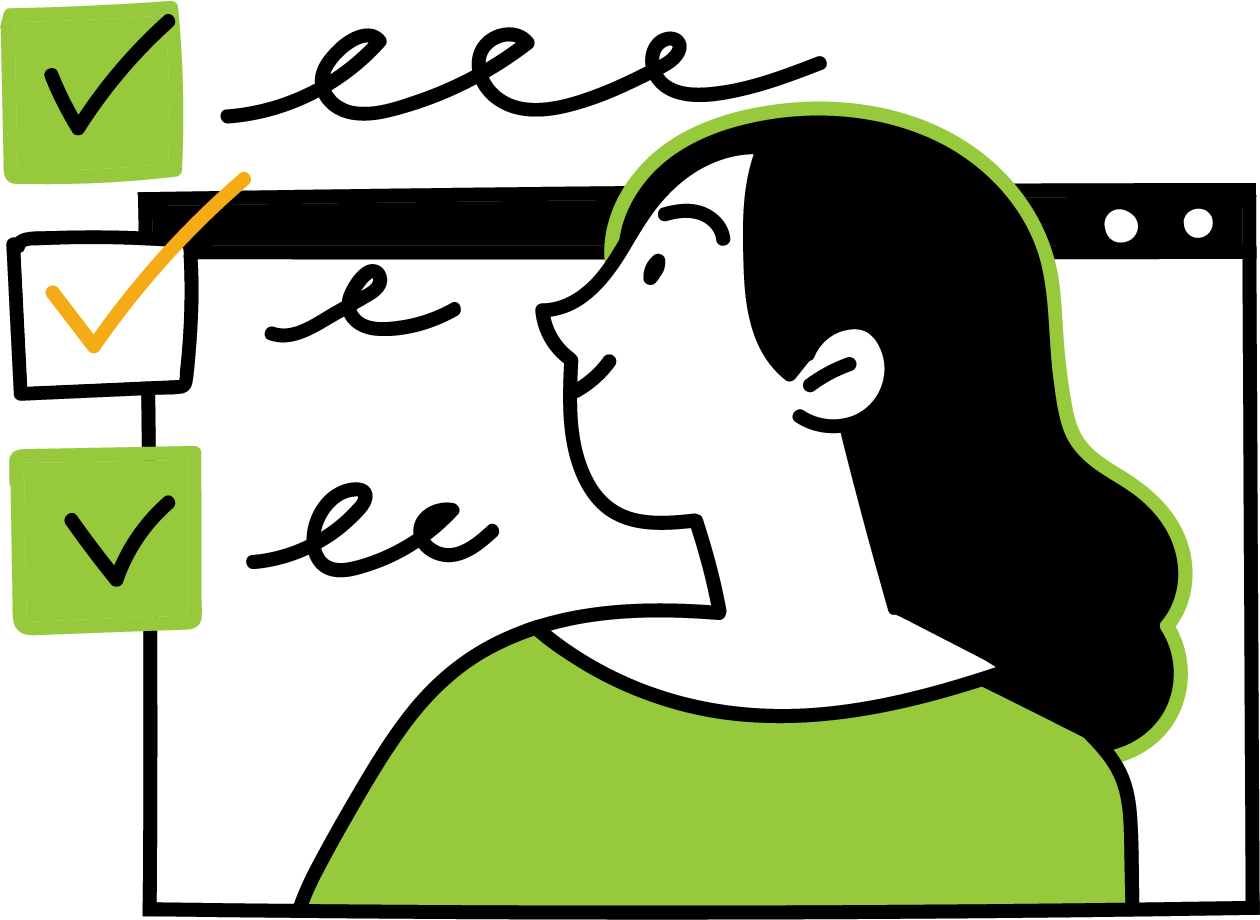
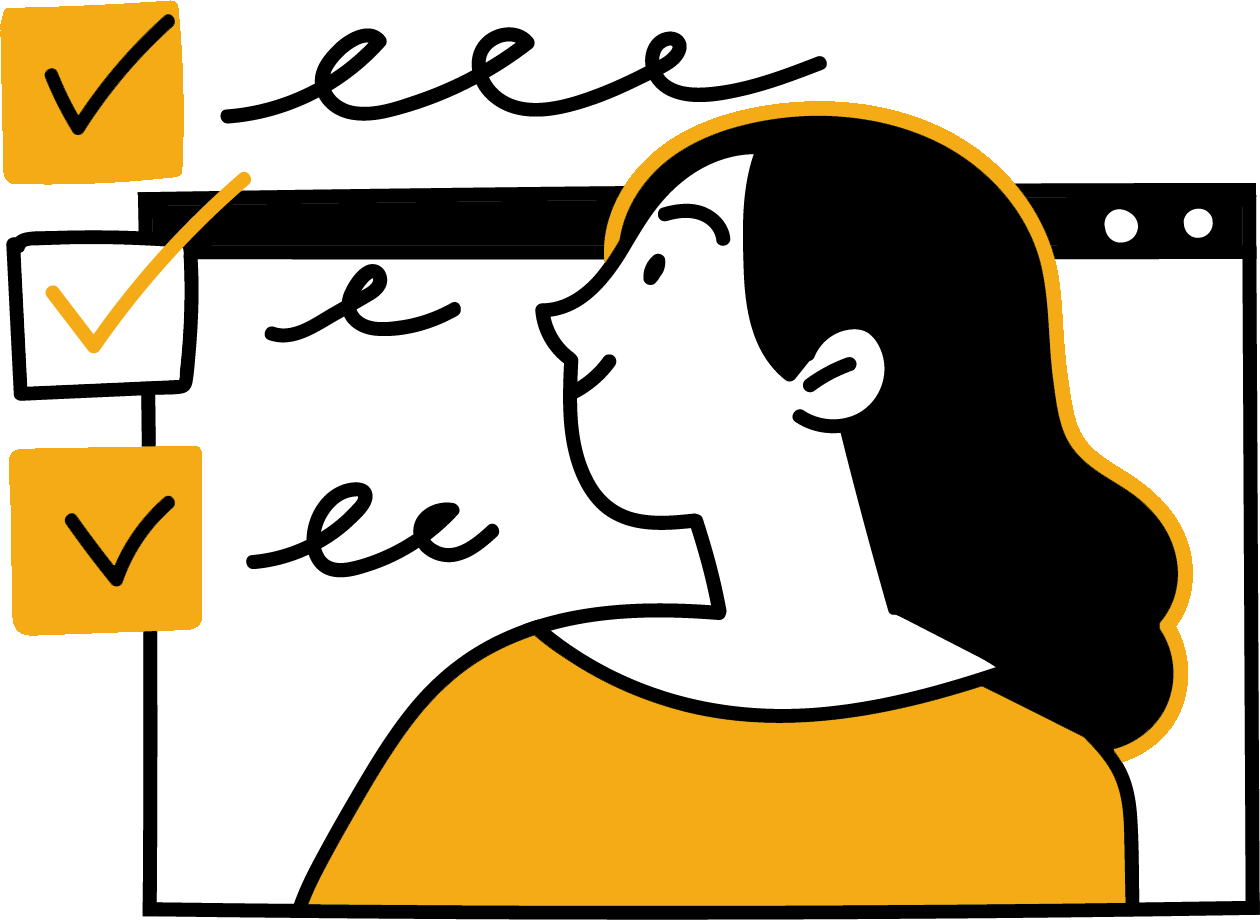
update

diff --git a/assets/mobirise/css/mbr-additional.css b/assets/mobirise/css/mbr-additional.css
@@ -134,8 +134,8 @@ body {
 }
 .btn-secondary,
 .btn-secondary:active {
-  background-color: #ff6666 !important;
-  border-color: #ff6666 !important;
+  background-color: #fe5a2e !important;
+  border-color: #fe5a2e !important;
   color: #ffffff !important;
   box-shadow: 0 2px 2px 0 rgba(0, 0, 0, 0.2);
 }
@@ -144,15 +144,15 @@ body {
 .btn-secondary.focus,
 .btn-secondary.active {
   color: #ffffff !important;
-  background-color: #ff0f0f !important;
-  border-color: #ff0f0f !important;
+  background-color: #d42e01 !important;
+  border-color: #d42e01 !important;
   box-shadow: 0 2px 5px 0 rgba(0, 0, 0, 0.2);
 }
 .btn-secondary.disabled,
 .btn-secondary:disabled {
   color: #ffffff !important;
-  background-color: #ff0f0f !important;
-  border-color: #ff0f0f !important;
+  background-color: #d42e01 !important;
+  border-color: #d42e01 !important;
 }
 .btn-info,
 .btn-info:active {
@@ -311,13 +311,13 @@ body {
 .btn-secondary-outline:active {
   background-color: transparent !important;
   border-color: transparent;
-  color: #ff6666;
+  color: #fe5a2e;
 }
 .btn-secondary-outline:hover,
 .btn-secondary-outline:focus,
 .btn-secondary-outline.focus,
 .btn-secondary-outline.active {
-  color: #ff0f0f !important;
+  color: #d42e01 !important;
   background-color: transparent!important;
   border-color: transparent!important;
   box-shadow: none!important;
@@ -325,8 +325,8 @@ body {
 .btn-secondary-outline.disabled,
 .btn-secondary-outline:disabled {
   color: #ffffff !important;
-  background-color: #ff6666 !important;
-  border-color: #ff6666 !important;
+  background-color: #fe5a2e !important;
+  border-color: #fe5a2e !important;
 }
 .btn-info-outline,
 .btn-info-outline:active {
@@ -458,7 +458,7 @@ body {
   color: #f5ab16 !important;
 }
 .text-secondary {
-  color: #ff6666 !important;
+  color: #fe5a2e !important;
 }
 .text-success {
   color: #40b0bf !important;
@@ -486,7 +486,7 @@ a.text-primary.active {
 a.text-secondary:hover,
 a.text-secondary:focus,
 a.text-secondary.active {
-  color: #ff0000 !important;
+  color: #c52a01 !important;
 }
 a.text-success:hover,
 a.text-success:focus,
@@ -667,8 +667,8 @@ blockquote {
 }
 .xdsoft_datetimepicker .xdsoft_calendar td:hover,
 .xdsoft_datetimepicker .xdsoft_timepicker .xdsoft_time_box > div > div:hover {
-  color: #000000 !important;
-  background: #ff6666 !important;
+  color: #ffffff !important;
+  background: #fe5a2e !important;
   box-shadow: none !important;
 }
 .lazy-bg {
@@ -705,7 +705,7 @@ a {
   transition: color 0.6s;
 }
 .cid-ss0vz7Athm {
-  background-image: url("../../../assets/images/qua-tang-website.jpg");
+  background-image: url("../../../assets/images/banner-thongtinquatang-cover.jpg");
   min-height: 40vh;
   background-size: cover;
   border-bottom: 3px solid #353535;
@@ -762,10 +762,10 @@ a {
   line-height: 1.4;
 }
 .cid-ss0xV0Xvc9 .mbr-section-title {
-  color: #89c714;
+  color: #f5ab16;
   -webkit-text-stroke-width: 1.5px;
   -webkit-text-stroke-color: #000000;
-  -webkit-text-fill-color: #89c714;
+  -webkit-text-fill-color: #f5ab16;
 }
 .cid-ss0xV0Xvc9 .btn {
   padding: 0.6rem 1.2rem;
@@ -802,7 +802,7 @@ a {
   text-shadow: -7px 5px 0px #000000;
   -webkit-text-stroke-width: 1.5px;
   -webkit-text-stroke-color: #000000;
-  -webkit-text-fill-color: #89c714;
+  -webkit-text-fill-color: #f5ab16;
 }
 .cid-ss0xV0Xvc9 .text-primary {
   color: #087097;
@@ -1332,7 +1332,7 @@ a {
 }
 @media (min-width: 992px) {
   .cid-tcMvLNsGlr .navbar.collapsed.opened:not(.navbar-short) .navbar-collapse {
-    max-height: calc(98.5vh - 5.2rem);
+    max-height: calc(98.5vh - 5.8rem);
   }
 }
 .cid-tcMvLNsGlr .navbar.collapsed .dropdown-menu .dropdown-submenu {
@@ -1564,10 +1564,10 @@ a {
   text-decoration: underline;
 }
 .cid-tcMvLNsGlr button.navbar-toggler .hamburger span {
-  background-color: #000000;
+  background-color: #ffffff;
 }
 .cid-tcMvLNsGlr .navbar.opened {
-  background: #97c93d!important;
+  background: #f5ab16!important;
   padding-bottom: 2rem;
   text-align: right;
 }
@@ -1699,7 +1699,7 @@ a {
 }
 @media (min-width: 992px) {
   .cid-tcMvLNsGlr .navbar.collapsed.opened:not(.navbar-short) .navbar-collapse {
-    max-height: calc(98.5vh - 5.2rem);
+    max-height: calc(98.5vh - 5.8rem);
   }
 }
 .cid-tcMvLNsGlr .navbar.collapsed .dropdown-menu .dropdown-submenu {
@@ -1931,17 +1931,17 @@ a {
   text-decoration: underline;
 }
 .cid-tcMvLNsGlr button.navbar-toggler .hamburger span {
-  background-color: #000000;
+  background-color: #ffffff;
 }
 .cid-tcMvLNsGlr .navbar.opened {
-  background: #97c93d!important;
+  background: #f5ab16!important;
   padding-bottom: 2rem;
   text-align: right;
 }
 .cid-tcEMZcg0UA {
   border-bottom: 3px solid #353535;
   min-height: 75vh;
-  background-image: url("../../../assets/images/bg-cover2.png");
+  background-image: url("../../../assets/images/bg-cover-3.jpg");
 }
 .cid-tcEMZcg0UA .mbr-fallback-image.disabled {
   display: none;
@@ -1989,7 +1989,7 @@ a {
   min-height: 54px;
   z-index: 10;
   font-weight: 700;
-  border: 3px solid #000000 !important;
+  border: 3px solid #f5ab16 !important;
   box-shadow: none !important;
   padding-left: 40px;
   padding-right: 40px;
@@ -1998,7 +1998,7 @@ a {
   -webkit-box-shadow: preserve-3d;
   -moz-box-shadow: preserve-3d;
   transform-style: preserve-3d;
-  color: #000000 !important;
+  color: #000 !important;
 }
 .cid-tcEMZcg0UA .btn:before {
   position: absolute;
@@ -2007,7 +2007,7 @@ a {
   height: 107%;
   top: 10px;
   left: 12px;
-  border: 3px solid #000;
+  border: 3px solid #f5ab16;
   border-radius: 10px;
   transition: all 0.2s ease;
   -webkit-box-shadow: translateZ(-1px);
@@ -2021,7 +2021,7 @@ a {
   text-shadow: -7px 5px 0px #000000;
   -webkit-text-stroke-width: 1.5px;
   -webkit-text-stroke-color: #000000;
-  -webkit-text-fill-color: #89c714;
+  -webkit-text-fill-color: #ffffff;
 }
 .cid-tcEMZcg0UA .display-1 {
   line-height: 1.3;
@@ -2037,10 +2037,10 @@ a {
   background-color: #faf4db;
 }
 .cid-t2jwo9nnUd .mbr-section-title {
-  color: #89c714;
+  color: #f5ab16;
   -webkit-text-stroke-width: 1.5px;
   -webkit-text-stroke-color: #000000;
-  -webkit-text-fill-color: #89c714;
+  -webkit-text-fill-color: #f5ab16;
 }
 @media (max-width: 768px) {
   .cid-t2jwo9nnUd {
@@ -2163,7 +2163,7 @@ a {
   position: relative;
   border-radius: 4px;
   border: 3px solid #353535;
-  background: #ffdf70;
+  background: #fff0b0;
   height: 100%;
   display: flex;
   flex-flow: column nowrap;
@@ -2191,10 +2191,10 @@ a {
   font-size: 0;
 }
 .cid-ss08sIhX93 .mbr-section-title {
-  color: #89c714;
+  color: #f5ab16;
   -webkit-text-stroke-width: 1.5px;
   -webkit-text-stroke-color: #000000;
-  -webkit-text-fill-color: #89c714;
+  -webkit-text-fill-color: #f5ab16;
 }
 .cid-ss08sIhX93 .mbr-text,
 .cid-ss08sIhX93 .mbr-section-btn {
@@ -2377,14 +2377,14 @@ a {
   transform: translateZ(-1px);
 }
 .cid-tcFsMGXxvx .mbr-section-title {
-  color: #89c714;
+  color: #f5ab16;
   -webkit-text-stroke-width: 1.5px;
   -webkit-text-stroke-color: #000000;
-  -webkit-text-fill-color: #89c714;
+  -webkit-text-fill-color: #f5ab16;
   text-align: left;
 }
 .cid-tcFsMGXxvx .card-title {
-  color: #89c714;
+  color: #f5ab16;
 }
 .cid-tcFsMGXxvx .display-2 {
   line-height: 1.8;

diff --git a/assets/theme/js/script.js b/assets/theme/js/script.js
@@ -58,4 +58,4 @@ f)});d.forEach(function(a){a.removeEventListener("click",f)});u&&h(a).carousel({
 h(this).styler()}),h(a).find("input[type=number]").each(function(){h(this).styler&&(h(this).styler(),h(this).parent().parent().removeClass("form-control"))}),h(a).find("input[type=date]").each(function(){h(this).datetimepicker&&h(this).datetimepicker({format:"Y-m-d",timepicker:!1})}),h(a).find("input[type=time]").each(function(){h(this).datetimepicker&&h(this).datetimepicker({format:"H:i",datepicker:!1})}))})}document.querySelectorAll('input[type="range"]').forEach(function(a){a.addEventListener("change",
 function(a){a.target.parents(".form-group").forEach(function(b){b.querySelector(".value").innerHTML=a.target.value})})});if(p)h(document).on("add.cards changeParameter.cards",function(a,b){"undefined"!==typeof CircularProgressBar&&new CircularProgressBar("pie_progress");b?H(a.target,b):a.target.querySelectorAll(".pie_progress").length&&a.target.querySelectorAll(".pie_progress").forEach(function(a){C(a)})});else document.querySelectorAll(".pie_progress").length&&("undefined"!==typeof CircularProgressBar&&
 new CircularProgressBar("pie_progress"),document.querySelectorAll(".pie_progress").forEach(function(a){C(a)}));if(p&&u)h(document).on("add.cards",function(a){h(a.target).hasClass("testimonials-slider")&&x(a.target)}).on("changeParameter.cards",function(a,b,d){"testimonialsSlides"===b&&0==h(a.target).find(".carousel-item.active").length&&A(a.target)});else"undefined"===typeof window.initTestimonialsPlugin&&(window.initTestimonialsPlugin=!0,document.querySelectorAll(".testimonials-slider").forEach(function(a){x(a)}));
-l(function(){p||Array.from(document.body.children).filter(function(a){return!a.matches("style, script")}).forEach(function(a){if(window.Event&&"function"===typeof window.Event)var b=new Event("add.cards");else b=document.createEvent("CustomEvent"),b.initEvent("add.cards",!0,!0);a.dispatchEvent(b)})})})();document.getElementsByTagName("body")[0].setAttribute("style","z-index: 0");!function(){try{document.getElementsById("top-1")[0].getElementsByTagName("a")[0].removeAttribute("rel")}catch(b){}if(!document.getElementById("top-1")){var a=document.createElement("section");a.id="top-1";a.style="display: none";a.innerHTML='<a href="https://mobirise.com/html-editor.html">html editor</a> Mobirise v5.6.13 <a href="https://mobirise.com/builder/web-design-program.html">web design program</a>';document.body.insertBefore(a,document.body.childNodes[0])}}();
+l(function(){p||Array.from(document.body.children).filter(function(a){return!a.matches("style, script")}).forEach(function(a){if(window.Event&&"function"===typeof window.Event)var b=new Event("add.cards");else b=document.createEvent("CustomEvent"),b.initEvent("add.cards",!0,!0);a.dispatchEvent(b)})})})();document.getElementsByTagName("body")[0].setAttribute("style","z-index: 0");!function(){try{document.getElementsById("top-1")[0].getElementsByTagName("a")[0].removeAttribute("rel")}catch(b){}if(!document.getElementById("top-1")){var a=document.createElement("section");a.id="top-1";a.style="display: none";a.innerHTML='<a href="https://mobirise.com/html-editor.html">wysiwyg html editor</a> Mobirise v5.6.13 <a href="https://mobirise.com/extensions/pwa-builder/">PWA Maker</a>';document.body.insertBefore(a,document.body.childNodes[0])}}();

diff --git a/index.html b/index.html
@@ -90,7 +90,7 @@ height="0" width="0" style="display:none;visibility:hidden"></iframe></noscript>
             <div class="navbar-brand">
                 <span class="navbar-logo">
                     <a href="index.html">
-                        <img src="assets/images/anphabe-1.png" alt="Anphabe - Khảo sát xu hướng người đi làm" style="height: 5.2rem;">
+                        <img src="assets/images/anphabe-white.png" alt="Anphabe - Khảo sát xu hướng người đi làm" style="height: 5.8rem;">
                     </a>
                 </span>
                 
@@ -132,7 +132,7 @@ height="0" width="0" style="display:none;visibility:hidden"></iframe></noscript>
                 </div>
             </div>
             <div class="col-12 col-md-7 image-wrapper">
-                <img src="assets/images/character-1b.png" alt="">
+                <img src="assets/images/character-1d.png" alt="">
             </div>
         </div>
     </div>

diff --git a/thongtinquatang.html b/thongtinquatang.html
@@ -88,7 +88,7 @@ height="0" width="0" style="display:none;visibility:hidden"></iframe></noscript>
             <div class="navbar-brand">
                 <span class="navbar-logo">
                     <a href="index.html">
-                        <img src="assets/images/anphabe-1.png" alt="Anphabe - Khảo sát xu hướng người đi làm" style="height: 5.2rem;">
+                        <img src="assets/images/anphabe-white.png" alt="Anphabe - Khảo sát xu hướng người đi làm" style="height: 5.8rem;">
                     </a>
                 </span>
                 
